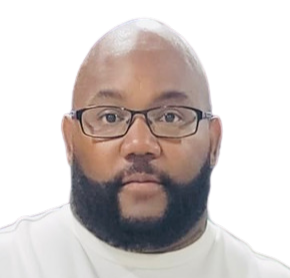
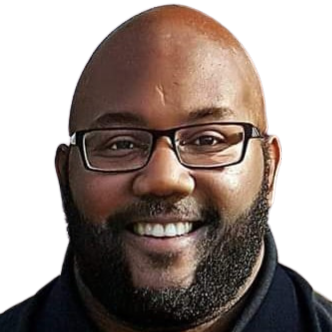
update

diff --git a/index.html b/index.html
@@ -56,8 +56,12 @@
 
                             <li class="list-inline-item red"><a href="https://www.instagram.com/ahowling_goodtime/"
                                     target="_blank" class=""><i class="mdi mdi-instagram red"></i></a></li>
-                            <li class="list-inline-item red"><a href="mailto:tyrese2423@gmail.com" class=""><i
-                                        class="mdi mdi-google-plus red"></i></a>
+                            <li class="list-inline-item red"><a href="mailto:ahowlinggoodtime@gmail.com" target="_blank"
+                                    class=""><i class="mdi mdi-google-plus red"></i></a>
+                            </li>
+                            <li class="list-inline-item red"><a
+                                    href="https://youtube.com/shorts/UPydE8eF37g?feature=share" target="_blank"
+                                    class=""><i class="mdi mdi-youtube red"></i></a>
                             </li>
                         </ul>
                     </div>
@@ -92,7 +96,7 @@
                             <li class=" mr-3">
                                 <a href="mailto:tyrese2423@gmail.com" class="text-muted f-15 mb-0"><i
                                         class="mdi mdi-email mr-2"></i><strong>Email:
-                                    </strong>tyrese2423@gmail.com</a>
+                                    </strong>ahowlinggoodtime@gmail.com</a>
                             </li>
 
                             <hr>
@@ -110,6 +114,12 @@
                                 <a href="" class="text-muted f-15 mb-0"><i
                                         class="mdi mdi-map-marker mr-2"></i><strong>Address: </strong>Madison,
                                     Wisconsin</a>
+                            </li>
+
+                            <hr>
+
+                            <li class=" mr-3">
+                                <button id="save-button">Sauvegarder</button>
                             </li>
 
                         </ul>
@@ -175,6 +185,12 @@
             </div>
 
             <div class="row">
+                <div class="col-lg-4">
+                    <div class="job-detail candidates-profile-education text-center text-muted mb-5 mt-5">
+                        <img src="photo/1.JPG" alt="" width="100%">
+                    </div>
+                </div>
+
                 <div class="col-lg-4">
                     <div class="job-detail candidates-profile-education text-center text-muted mb-5 mt-5">
                         <img src="photo/MEDIA.JPG" alt="" width="100%">
@@ -394,10 +410,41 @@
         .info-box {
             margin: 0 0 80px 0;
         }
+
+        button {
+            text-align: center;
+            border: 1px solid rgba(128, 128, 128, 0.492);
+            padding: 5px 10px;
+            font-size: 14px;
+            border-radius: 10px;
+            width: 100%;
+        }
     </style>
 
     <script type="text/javascript">
+        // Define the vCard fields
+        var vcardString = 'BEGIN:VCARD\n';
+        vcardString += 'VERSION:3.0\n';
+        vcardString += 'N:Tyrese;Evans;;;\n';
+        vcardString += 'FN:Tyrese Evans\n';
+        vcardString += 'TEL;TYPE=Mobile,voice:+1(608) 239 8718\n';
+        vcardString += 'EMAIL:ahowlinggoodtime@gmail.com\n';
+        vcardString += 'URL;TYPE=Website:www.ahowlinggoodtimetraining.com\n';
+        vcardString += 'TITLE:Training Director\n';
+        vcardString += 'END:VCARD\n';
 
+        // Attach an event handler to the save button
+        document.getElementById('save-button').addEventListener('click', function () {
+            // Create an anchor element with a data URI that contains the vCard string
+            var a = document.createElement('a');
+            a.href = 'data:text/vcard;charset=utf-8,' + encodeURIComponent(vcardString);
+
+            // Set the download attribute to the desired filename
+            a.download = 'contact.vcf';
+
+            // Click the anchor element to trigger the download
+            a.click();
+        });
     </script>
 </body>
 
